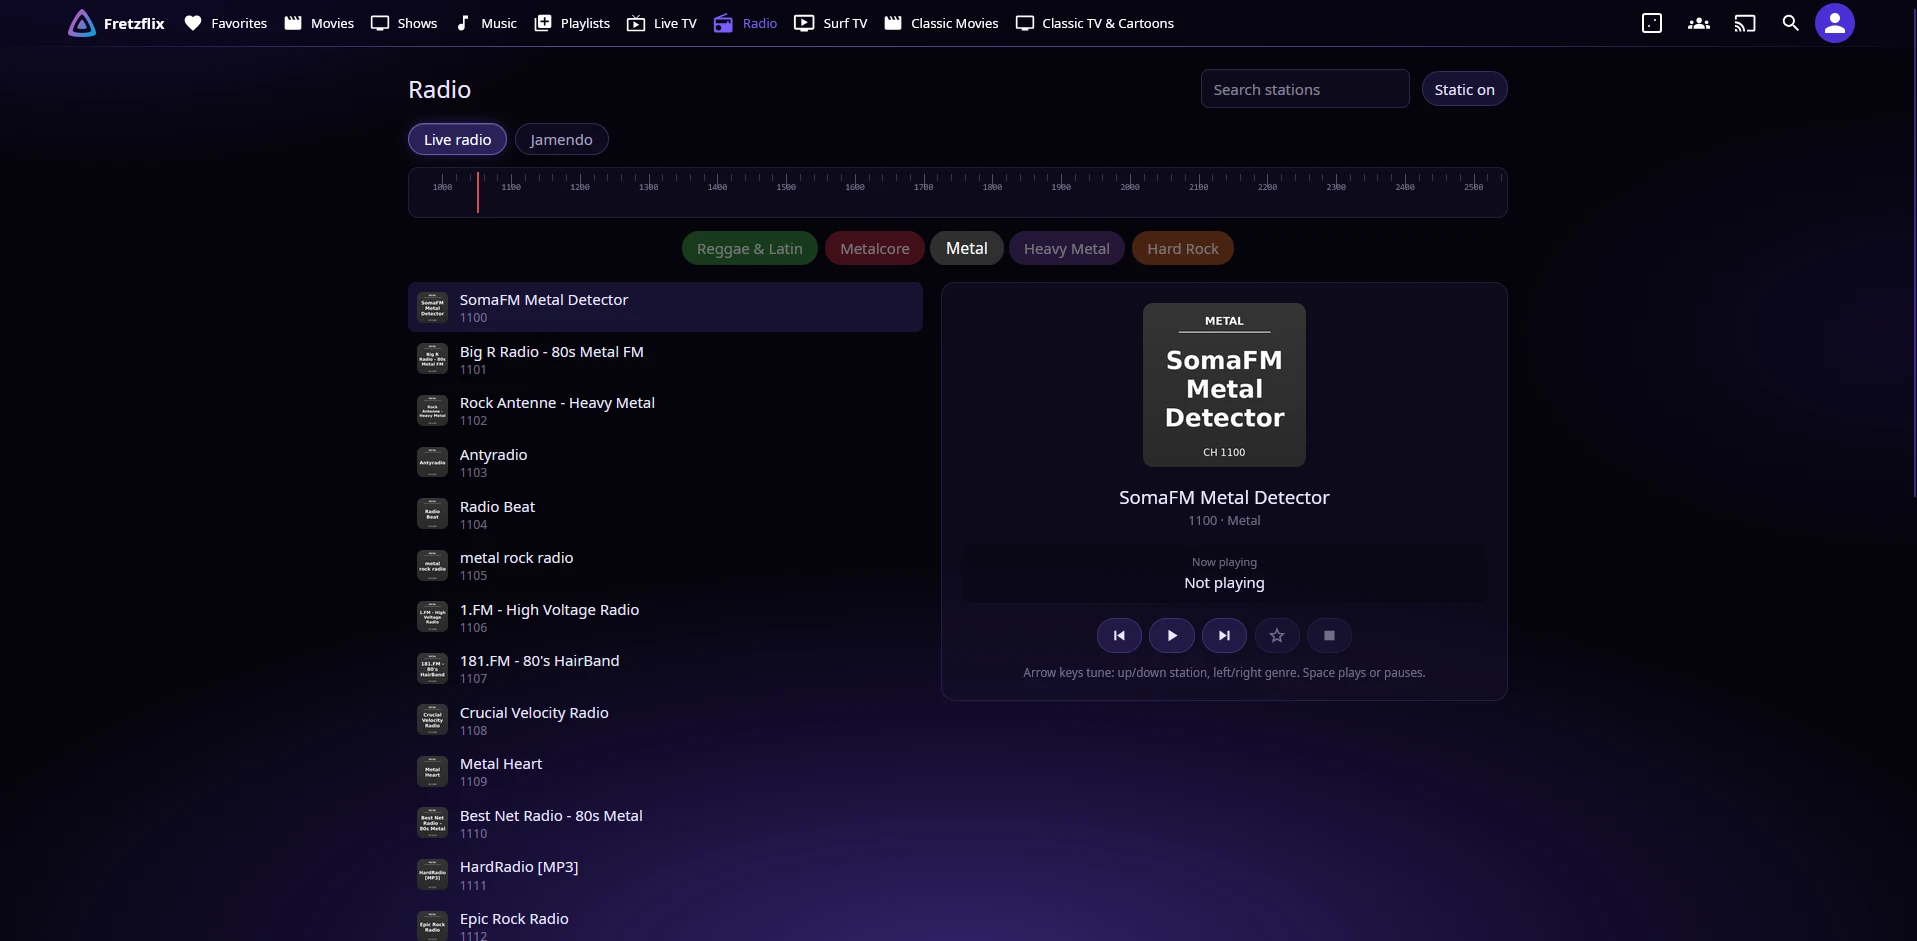
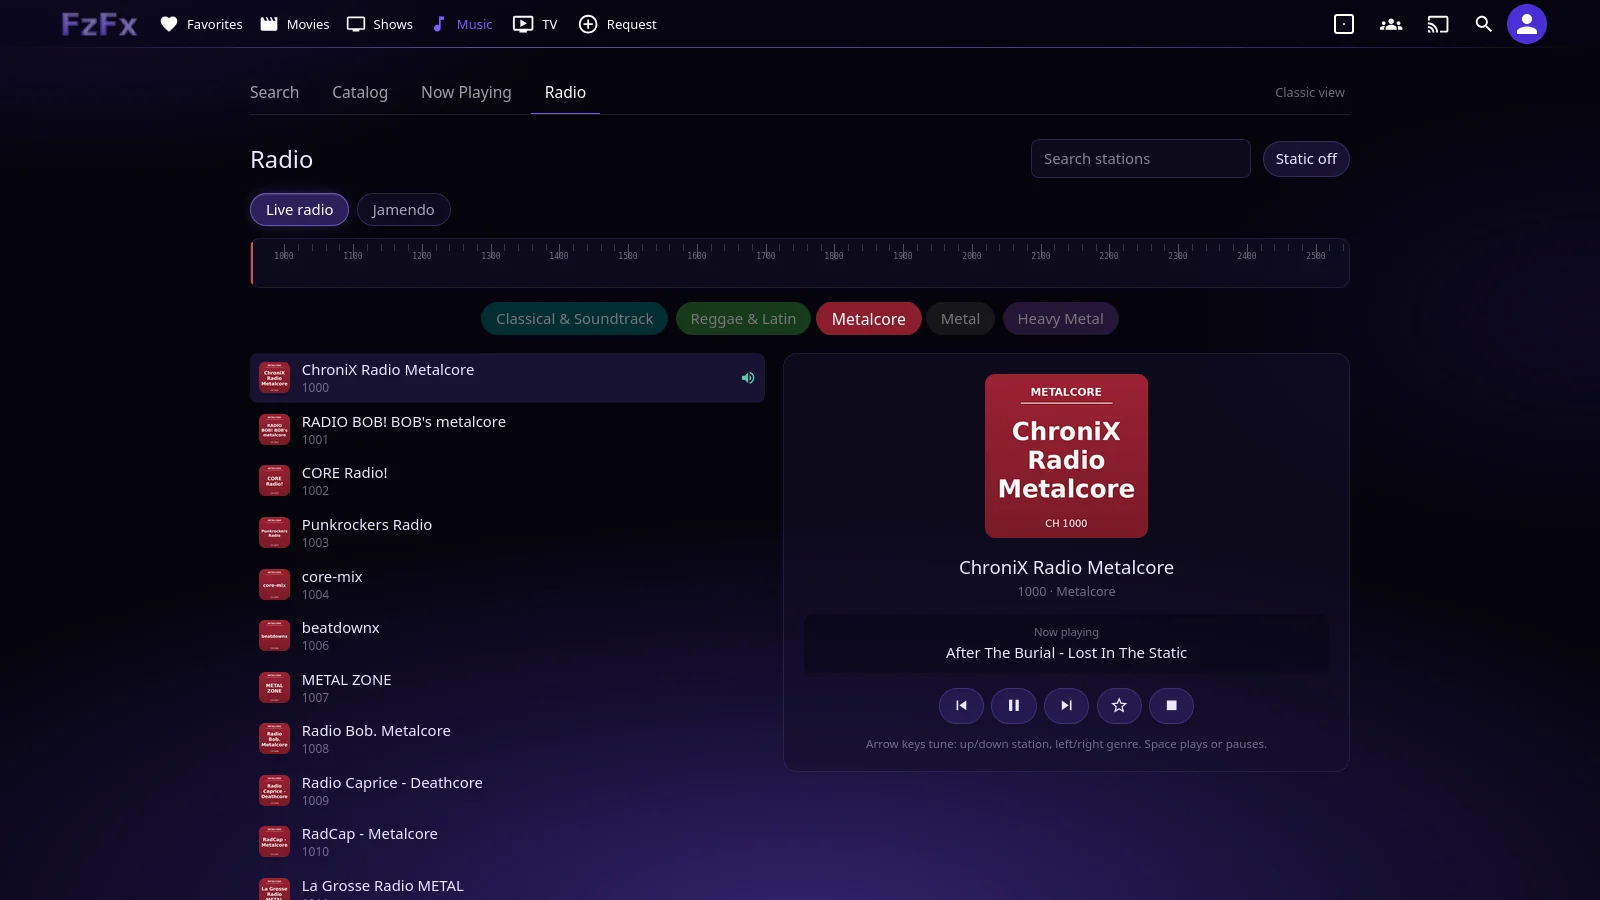
README: screenshots of Surf TV, the TV and Music sections, Jamendo and Request
The only picture was an old Radio shot with the pre-1.0 top bar. Retaken
at 1600 x 900 on the current version. Surf TV is 800 x 450: the
headless browsers here can't play H.264, so it came from the in-app
browser, which caps captures at 800 px wide.

diff --git a/README.md b/README.md
@@ -4,11 +4,12 @@ Radio and live TV pages for the Jellyfin web UI, plus a simpler Music page, tidi
 
 > Built with Claude for my own server and shared as is. Tested on Jellyfin 12.4 (web UI, Jellyfin Media Player, Android app). Issues and pull requests are welcome.
 
-![The Radio page: a tuning dial, genre buttons, the station list and the player](screenshots/radio.webp)
+![The Radio page: a tuning dial, genre buttons, the station list and the player with the song playing](screenshots/radio.webp)
 
 ## Contents
 
 - [What it adds](#what-it-adds)
+- [Screenshots](#screenshots)
 - [Install](#install)
 - [Settings](#settings)
 - [Station list format](#station-list-format)
@@ -41,6 +42,32 @@ Every part is off until you set it up.
 - The player's controls stay up while the mouse rests on them.
 
 **Works in** web-based apps: browsers, Jellyfin Media Player, and the official Android and iPhone apps. Native TV apps (Android TV, Roku, Apple TV) draw their own screens and won't show it.
+
+## Screenshots
+
+Taken on my own server, which also runs a custom theme ([Fretzflix Night](https://github.com/coltonfretz/fretzflix-theme)), so the colors and logo are mine. The plugin's pages pick up whatever theme you use.
+
+**Surf TV:** flip through channels with up and down, grouped by genre.
+
+![Surf TV: a channel playing, the channel list beside it and genre buttons below](screenshots/surf.webp)
+
+**TV section:** Surf, Guide and Classics as tabs under one TV link.
+
+![The TV section's Guide tab: programs on now and coming up](screenshots/guide.webp)
+
+![The TV section's Classics tab: a library of old cartoons and shorts](screenshots/classics.webp)
+
+**Music:** Search, Catalog, Now Playing and Radio tabs, with a Spotlight album up top.
+
+![The Music page's Catalog tab: a Spotlight album, playlists and albums by decade](screenshots/music.webp)
+
+**Jamendo:** Creative Commons music by genre, one track after another.
+
+![Jamendo on the Radio page: genre buttons and the player](screenshots/jamendo.webp)
+
+**Request:** a search that finds nothing offers a way to ask for it.
+
+![A search with no results and a "Can't find it? Request it" button](screenshots/request-search.webp)
 
 ## Install
 
